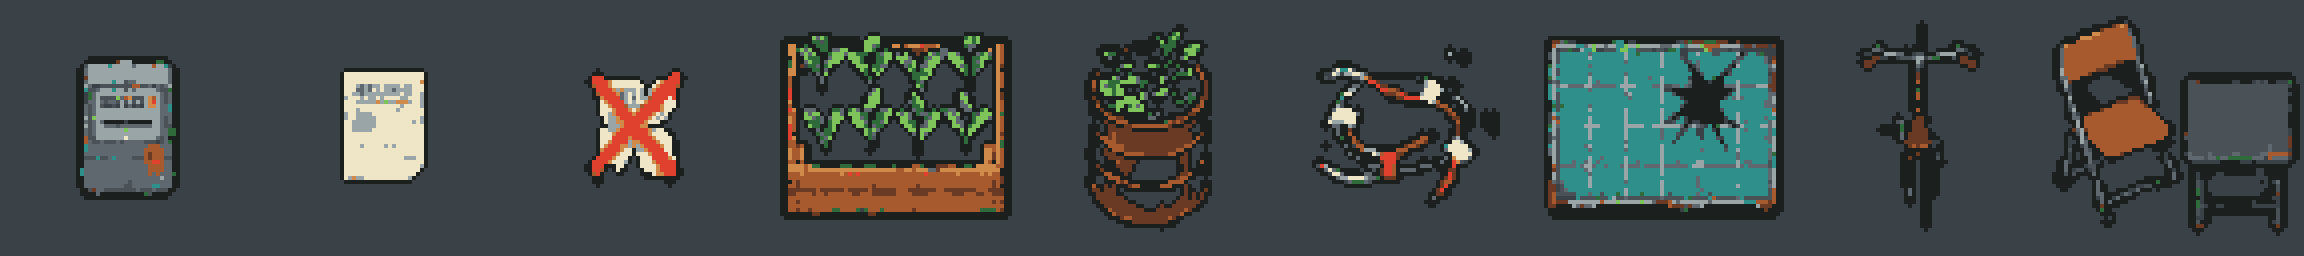
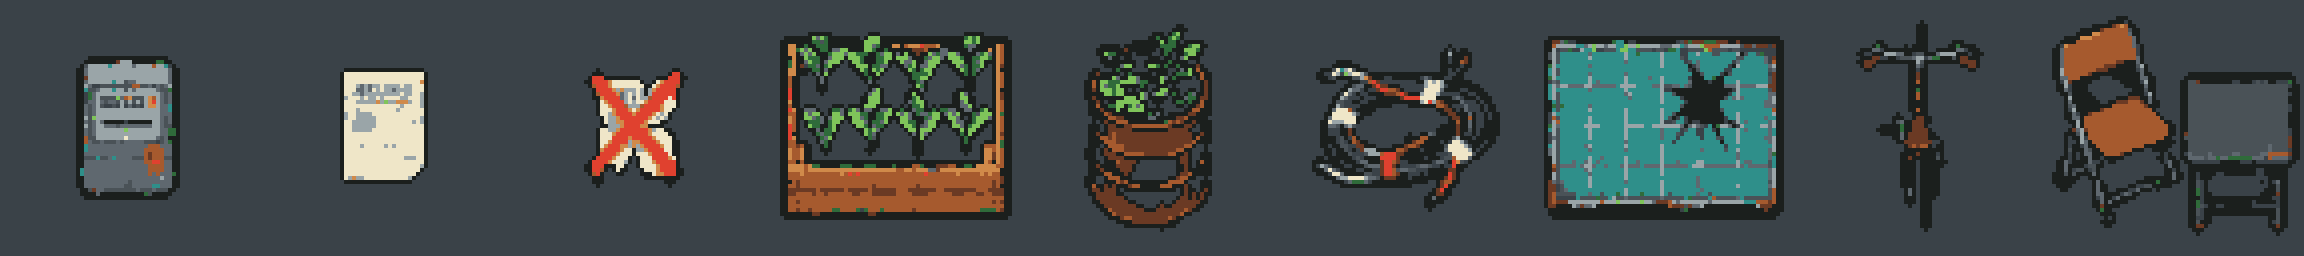
Remake the cable-coil prop and lay it on the floor
The dark cable matched the dark background and was cut away; it now gets a lower background tolerance.

Changed region(s): [[0.5625, 0.2188, 0.6562, 0.75]]

diff --git a/tools/prop_sprites.py b/tools/prop_sprites.py
@@ -35,7 +35,8 @@ from scipy import ndimage
 
 # Reuse the tree script's cut-out step (same folder).
 sys.path.insert(0, str(Path(__file__).resolve().parent))
-from tree_sprites import TREE_PALETTE, cut_out  # noqa: E402  (import after the path fix)
+import tree_sprites  # noqa: E402  (import after the path fix)
+from tree_sprites import TREE_PALETTE, cut_out  # noqa: E402
 
 ROOT = Path(__file__).resolve().parent.parent
 CONCEPT = ROOT / "art/concept/05_props/05_props_b.png"
@@ -49,11 +50,17 @@ PROPS = {
     "notice_x":   ((524, 990, 754, 1247), 30),   # one the block crossed out in red paint
     "planter":    ((958, 287, 1297, 554), 58),   # a wooden planter box of seedlings
     "barrel":     ((1418, 187, 1685, 623), 50),  # a rusty barrel turned into a planter
-    "cable":      ((514, 257, 867, 572), 46),    # a coil of cut Helios cable
+    "cable":      ((514, 257, 867, 572), 46),    # a coil of cut Helios cable (lower tolerance)
     "panel":      ((1808, 947, 2242, 1279), 60), # a broken solar panel lying flat
     "bike":       ((2354, 877, 2627, 1359), 56), # a bike, seen from above
     "chair":      ((2263, 230, 2680, 599), 62),  # a folding chair and a card table
 }
+
+# How different (sum of R, G and B differences) a pixel must be from the background to
+# count as part of a prop. The trees used 90, which is fine for bright props, but the
+# cable coil's dark rubber is close to the dark background and vanished, so it gets less.
+DEFAULT_TOLERANCE = 90
+TOLERANCE = {"cable": 24}
 
 # The tree palette plus teal and two steel steps (the panel's glass and the meter's casing).
 PALETTE = dict(TREE_PALETTE, **{
@@ -98,7 +105,11 @@ def shrink(cutout: Image.Image, longest: int) -> np.ndarray:
 def main() -> None:
     """Cut every prop, pack them into one strip, and save it plus a big preview."""
     picture = np.asarray(Image.open(CONCEPT).convert("RGB")).astype(int)
-    frames = [shrink(cut_out(picture, box), longest) for box, longest in PROPS.values()]
+    frames = []
+    for name, (box, longest) in PROPS.items():
+        # cut_out reads the tolerance from the tree script, so set it there for each prop.
+        tree_sprites.BACKGROUND_TOLERANCE = TOLERANCE.get(name, DEFAULT_TOLERANCE)
+        frames.append(shrink(cut_out(picture, box), longest))
     strip = np.concatenate(frames, axis=1)   # side by side, left to right
     out = ROOT / "art/sprites/props.png"
     Image.fromarray(strip, "RGBA").save(out)
